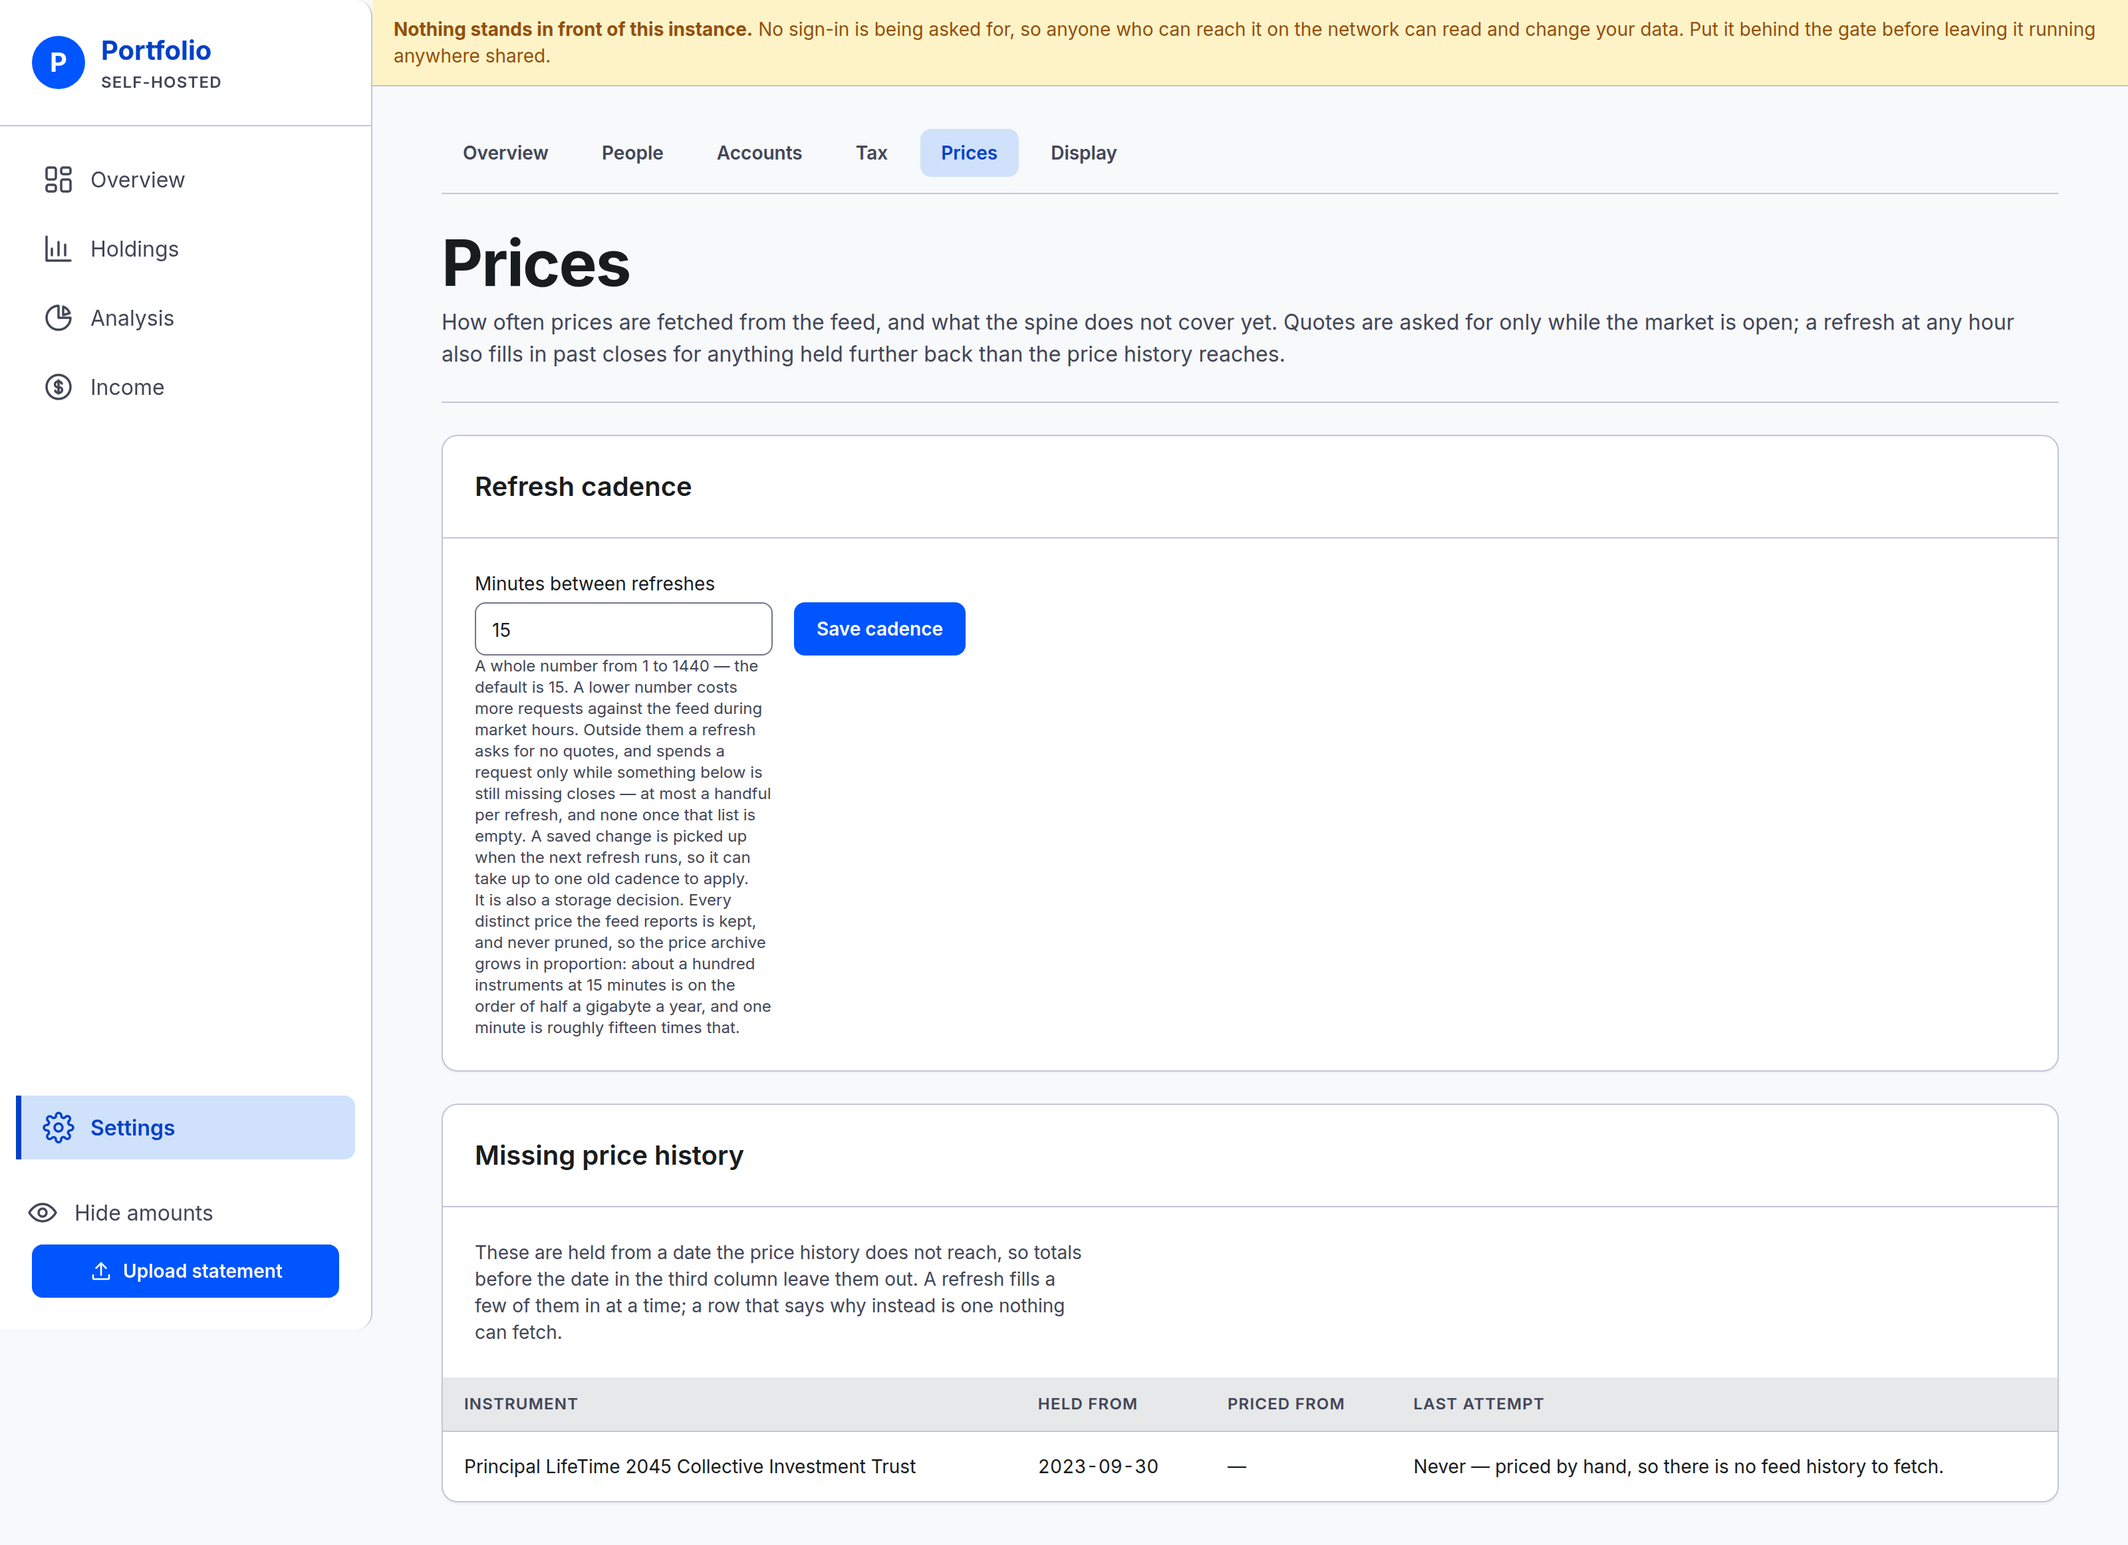
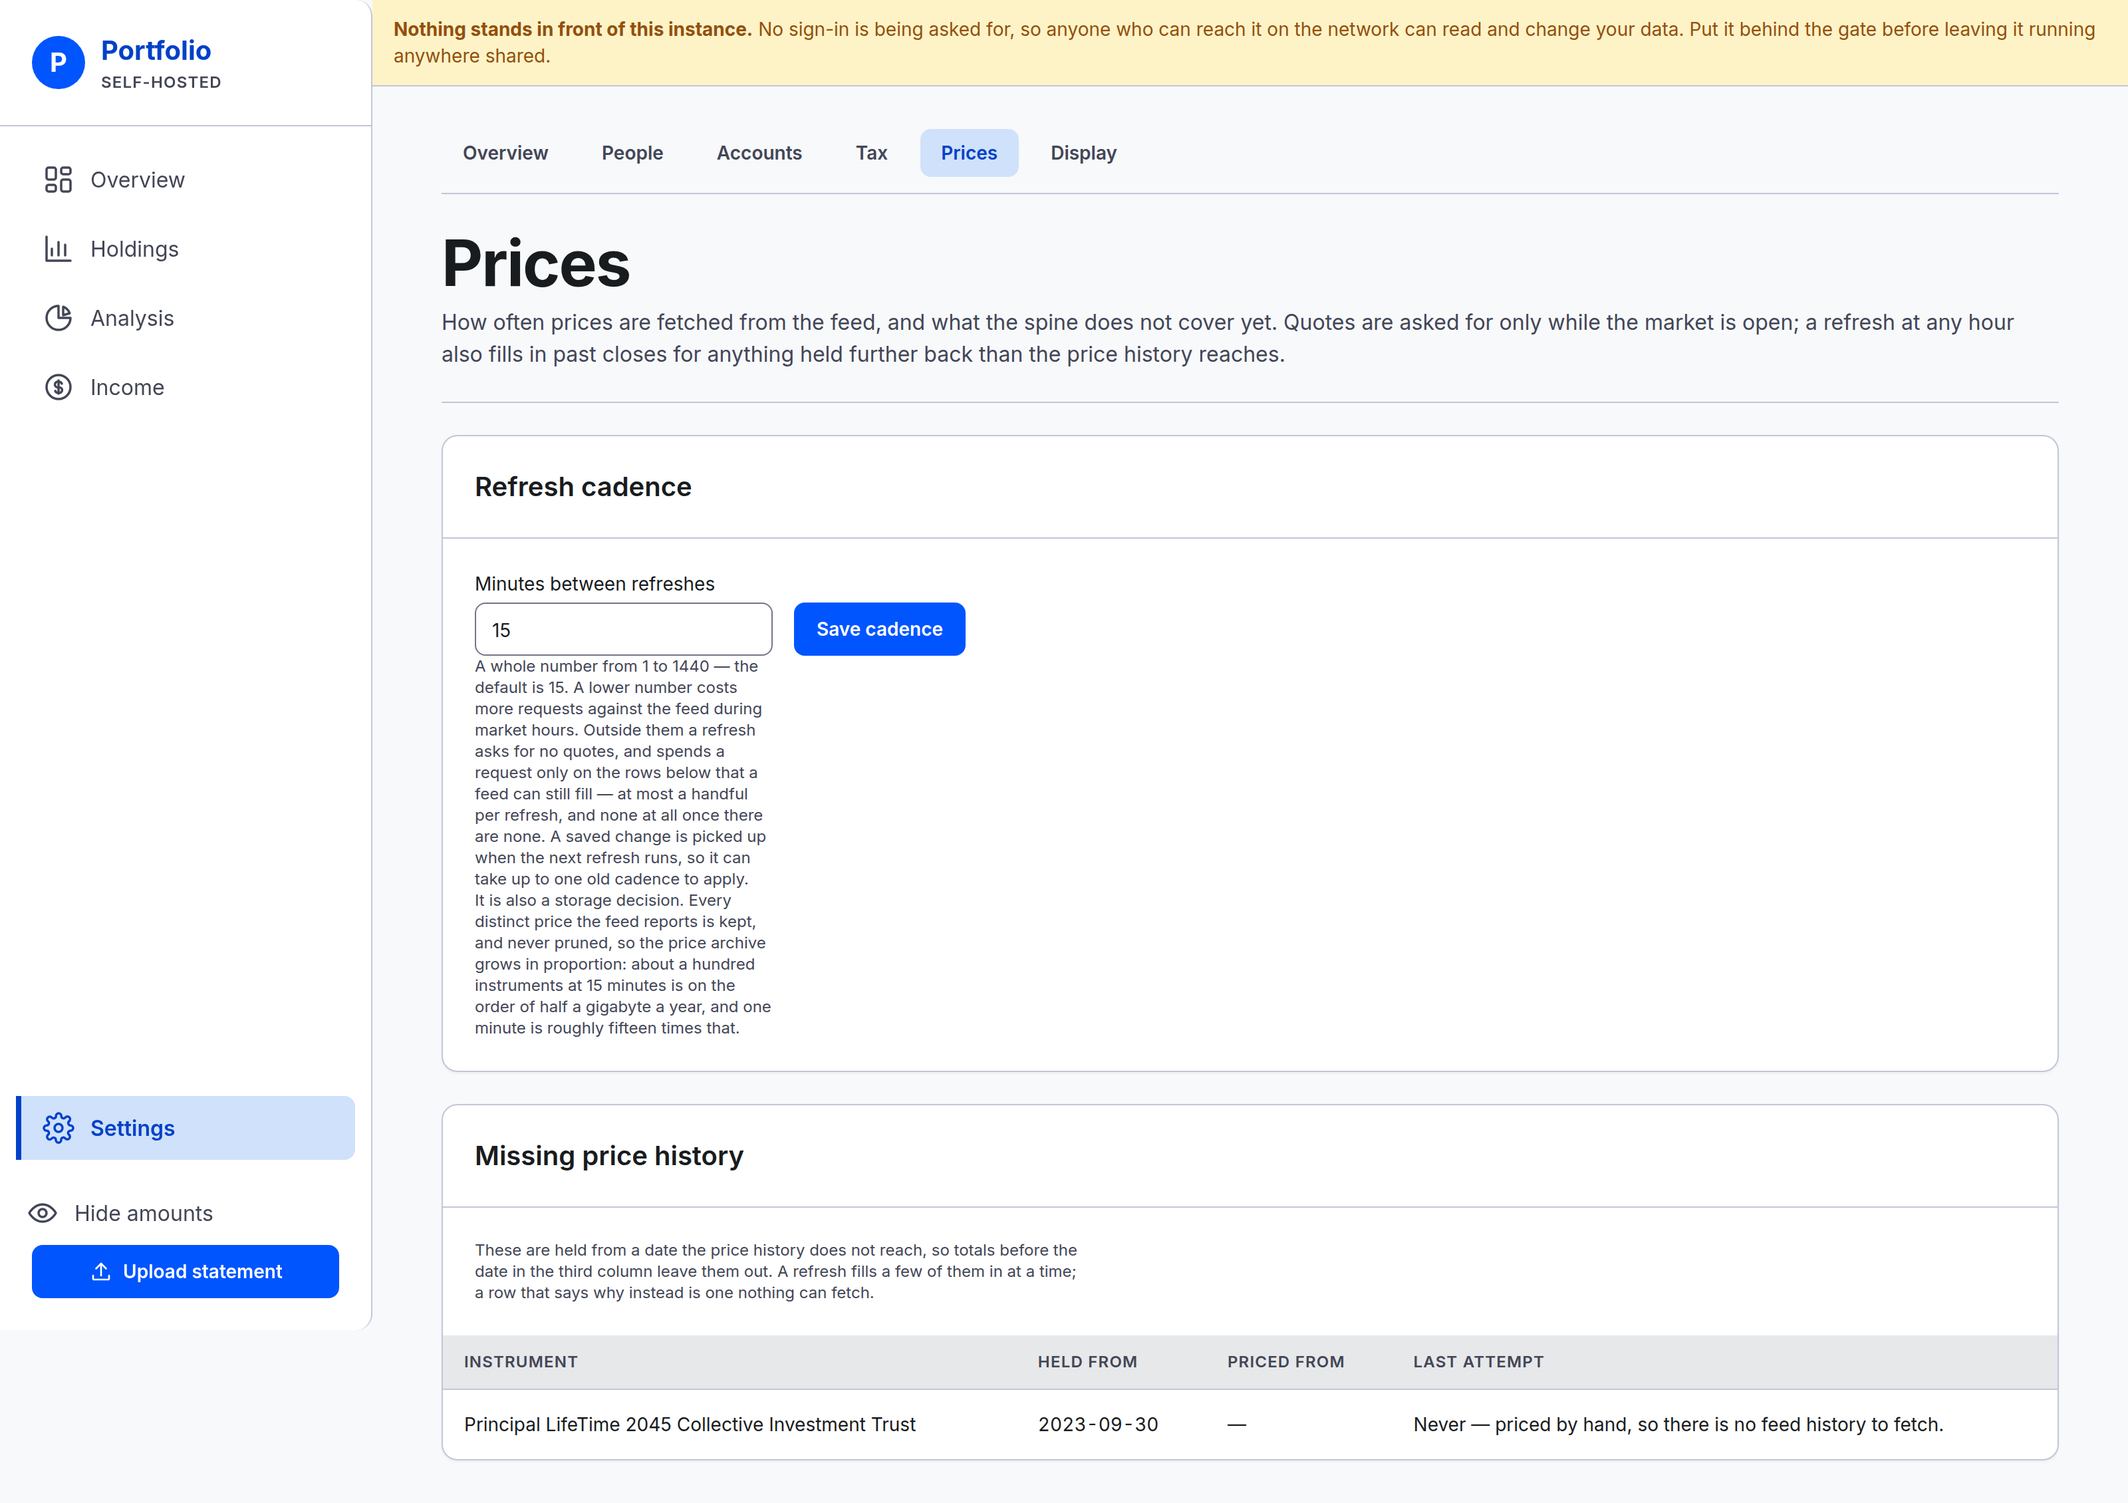
Pin the gap list's rules, and let the compiler hold the third vocabulary
Review found three mutations the tests let through and one they could not
have: the `fixed` exclusion was tested against the seeded USD row, which
carries a 1970 close and therefore has no gap at all — the row was absent for
a reason that had nothing to do with the filter, and deleting the filter left
the suite green. It is now tested against a fixed instrument with no close,
which only the filter keeps off the list. The comment beside it said the
opposite of what the test proved.

Two rules the ticket states had no test: that the list has no bound — a person
asking why a date is unpriced must not be shown a page of it — and that the
date reported is the *earliest* an instrument was held, which every test had
been holding in exactly one position set. Both now fail when broken.

The outcome sentences are keyed by `BackfillOutcome` rather than by `string`.
There are three copies of that vocabulary — the migration's `check`, the const
object, and these words — and two of them are kept in step by hand. This is the
one the compiler can hold: a literal added to the object and forgotten here is
now a typecheck failure rather than a blank cell on a settings screen, which is
also why the lookup no longer needs a fallback to excuse.

The route stopped re-deriving why an instrument will never be tried. It read
`priceSource === "manual"` and asserted "no ticker recorded" for everything
else, which is true only because of how the domain happens to define `willTry`
[…]

diff --git a/app/routes/settings/prices.tsx b/app/routes/settings/prices.tsx
@@ -4,7 +4,7 @@ import { FORM_ERROR, ValidationError, formFields } from "~/lib/input.server";
 import { backfillGaps } from "~/lib/prices.server";
 import { readRefreshCadence, saveRefreshCadence } from "~/lib/settings.server";
 
-import type { BackfillGap } from "~/lib/prices.server";
+import type { BackfillGap, BackfillOutcome } from "~/lib/prices.server";
 import type { Route } from "./+types/prices";
 
 /**
@@ -26,7 +26,9 @@ export function meta() {
 }
 
 export async function loader() {
-  return { refreshCadenceMinutes: await readRefreshCadence(), gaps: await backfillGaps() };
+  const [refreshCadenceMinutes, gaps] = await Promise.all([readRefreshCadence(), backfillGaps()]);
+
+  return { refreshCadenceMinutes, gaps };
 }
 
 export async function action({ request }: Route.ActionArgs) {
@@ -112,8 +114,8 @@ export default function Prices({ loaderData, actionData }: Route.ComponentProps)
             <p id="refresh-cadence-note" className="field-note">
               A whole number from 1 to 1440 — the default is 15. A lower number costs more
               requests against the feed during market hours. Outside them a refresh asks for no
-              quotes, and spends a request only while something below is still missing closes —
-              at most a handful per refresh, and none once that list is empty. A saved change is
+              quotes, and spends a request only on the rows below that a feed can still fill — at
+              most a handful per refresh, and none at all once there are none. A saved change is
               picked up when the next refresh runs, so it can take up to one old cadence to
               apply.
             </p>
@@ -150,7 +152,7 @@ export default function Prices({ loaderData, actionData }: Route.ComponentProps)
         ) : (
           <>
             <div className="panel-body">
-              <p className="empty-note">
+              <p className="field-note">
                 These are held from a date the price history does not reach, so totals before the
                 date in the third column leave them out. A refresh fills a few of them in at a
                 time; a row that says why instead is one nothing can fetch.
@@ -197,27 +199,52 @@ export default function Prices({ loaderData, actionData }: Route.ComponentProps)
  * sentence here falls back to the stored value rather than to nothing, so a
  * literal added to the schema and not to this map is legible rather than blank.
  */
-function attemptWords(gap: BackfillGap): string {
+function attemptWords(gap: BackfillGap): React.ReactNode {
   // Why, not just that: a hand-priced trust and a feed instrument nobody has
-  // given a ticker are two different things for a person to do about.
+  // given a ticker are two different things for a person to do about. Each
+  // branch reads a fact on the row rather than re-deriving the domain's rule for
+  // `willTry`, so a fourth price source would fall to the last sentence rather
+  // than be told its ticker is missing.
   if (!gap.willTry) {
-    return gap.priceSource === "manual"
-      ? "Never — priced by hand, so there is no feed history to fetch."
-      : "Never — no ticker recorded, so there is nothing to fetch under.";
+    if (gap.priceSource === "manual") {
+      return "Never — priced by hand, so there is no feed history to fetch.";
+    }
+    if (gap.symbol === null) {
+      return "Never — no ticker recorded, so there is nothing to fetch under.";
+    }
+    return "Never — this instrument is not priced from the feed.";
   }
 
   if (gap.lastAttempt === null) return "Not tried yet — the next refresh will.";
 
+  // The UTC day, formatted on the server for `settings/accounts.tsx`'s reason:
+  // these pages must work with JavaScript off, so there is no browser clock to
+  // ask at render time and a locale-formatted date would disagree with itself
+  // between the server render and hydration.
   const on = new Date(gap.lastAttempt.at).toISOString().slice(0, 10);
-  const said = OUTCOME_WORDS[gap.lastAttempt.outcome] ?? gap.lastAttempt.outcome;
+  const said = wordsFor(gap.lastAttempt.outcome);
 
-  return gap.lastAttempt.error === null
-    ? `${on} — ${said}`
-    : `${on} — ${said} ${gap.lastAttempt.error}`;
+  // An empty error is a row the ledger allows — a provider that failed with
+  // nothing to say — and appending it would leave a dangling colon.
+  const because = gap.lastAttempt.error?.trim();
+
+  return (
+    <>
+      <span className="u-data">{on}</span> — {because ? `${said} ${because}` : said}
+    </>
+  );
 }
 
-/** The ledger's closed vocabulary, as a person reads it. */
-const OUTCOME_WORDS: Record<string, string> = {
+/**
+ * The ledger's closed vocabulary, as a person reads it.
+ *
+ * Keyed by {@link BackfillOutcome} rather than by `string`, which is what makes
+ * this the *checked* copy: a literal added to `BACKFILL_OUTCOMES` and forgotten
+ * here fails the typecheck, where a `Record<string, string>` would ship a blank
+ * cell. The migration's `check` constraint and the const object are kept in step
+ * by hand; this is the one of the three the compiler can hold.
+ */
+const OUTCOME_WORDS: Record<BackfillOutcome, string> = {
   filled: "closes were written, and more are still missing.",
   nothing_to_write: "the feed answered, and every day it returned was already stored.",
   no_history: "the feed has no history for this ticker — it may be delisted or renamed.",
@@ -225,3 +252,15 @@ const OUTCOME_WORDS: Record<string, string> = {
   split_unresolved: "a share split in the range could not be applied, so nothing was stored.",
   provider_failed: "the request failed:",
 };
+
+/**
+ * The sentence for one stored outcome, or the stored value itself.
+ *
+ * The value crosses the driver as a `string`, so the lookup has to tolerate one
+ * the map has never heard of — which the `check` constraint makes impossible
+ * and a person reading a blank cell could not diagnose. Written as a search
+ * rather than an index so no assertion is needed to narrow the key.
+ */
+function wordsFor(outcome: string): string {
+  return Object.entries(OUTCOME_WORDS).find(([stored]) => stored === outcome)?.[1] ?? outcome;
+}

diff --git a/app/lib/prices.server.ts b/app/lib/prices.server.ts
@@ -234,15 +234,21 @@ export type BackfillOutcome = (typeof BACKFILL_OUTCOMES)[keyof typeof BACKFILL_O
  * before the day this was first held? `docs/importing-history.md`'s recipe says
  * the same thing as `min(price_daily.date) is null or > min(as_of_date)` over a
  * left join, which is equivalent and ruinous here: that join pairs every
- * holding row with every close of its instrument before the aggregate, which at
- * a hundred instruments over seven years is ~35M inner rows and about 1.4s
- * against ~4ms for this probe — and it grows without bound as the spine this
- * slice exists to fill grows. ARCHITECTURE §10 records the same shape as a bug
+ * holding row with every close of its instrument before the aggregate. Measured
+ * against a hundred instruments, ten years of monthly position sets and seven
+ * years of daily closes, that is 35M inner rows and 1.4s where this probe is
+ * 4ms — and the gap widens without bound as the spine this slice exists to fill
+ * grows. (The figures are that shape's; a shallower household is cheaper both
+ * ways and the ratio holds.) ARCHITECTURE §10 records the same shape as a bug
  * this repository has fixed once already. The recipe runs by hand; this runs on
  * every tick.
  *
- * It reads `instrument` and `position_set` from whichever query it is dropped
- * into, so both must join those under those names.
+ * **It is a `having` predicate, not a `where` one.** It reads `instrument` and
+ * `position_set` from whichever query it is dropped into — so both must join
+ * those under those names — and it reads `min(position_set.as_of_date)`, so the
+ * grouping must be one row per instrument for that to mean the instrument's
+ * first-held date. A grouping that split an instrument across two rows would
+ * change what this asks without touching a character of it.
  */
 const NO_CLOSE_BY_FIRST_HELD = sql<boolean>`not exists (
   select 1
@@ -351,9 +357,10 @@ export type BackfillGap = {
   /** The most recent attempt, or null where the batch has never tried. */
   lastAttempt: { at: Date; outcome: string; error: string | null } | null;
   /**
-   * `feed` or `manual`. Carried because {@link willTry} says *that* the batch
-   * will never try a row and this says *why* — a hand-priced trust and a feed
-   * instrument nobody has given a ticker are two different things to do about.
+   * As stored. `fixed` is filtered out, so in practice `feed` or `manual` —
+   * carried because {@link willTry} says *that* the batch will never try a row
+   * and this is half of *why*: a hand-priced trust and a feed instrument nobody
+   * has given a ticker are two different things for a person to do about.
    */
   priceSource: string;
   /**
@@ -442,9 +449,9 @@ export async function backfillGaps(db: Kysely<Database> = getDb()): Promise<Back
     name: row.name,
     firstHeld: row.first_held,
     firstClose: row.first_close,
-    // Both columns come from one row of the lateral, so either is the test for
-    // "there was an attempt"; TypeScript cannot see that, and reading the one
-    // the component needs is the honest narrowing.
+    // Both columns come from one row of the lateral, so in the database either
+    // alone answers "was there an attempt". TypeScript cannot see that, so both
+    // are checked — which is the narrowing, not a second condition.
     lastAttempt:
       row.started_at === null || row.outcome === null
         ? null

diff --git a/tests/price-backfill.test.ts b/tests/price-backfill.test.ts
@@ -1205,20 +1205,72 @@ describe("the whole list of gaps, for the person reading Settings", () => {
   );
 
   it(
-    "never lists the fixed instrument, whose close covers everything",
-    withDatabase(async ({ db, seedAccount, seedPositionSet, usdInstrument }) => {
+    "never lists a fixed instrument, even one that would otherwise be a gap",
+    withDatabase(async ({ db, seedAccount, seedInstrument, seedPositionSet, usdInstrument }) => {
       const account = await seedAccount();
+
+      // The seeded USD row is the wrong test on its own: its 1970 close covers
+      // every date, so it has no gap and would be absent whatever the filter
+      // said. This one has no close at all, so only the filter keeps it off.
+      const fixed = await seedInstrument({ symbol: "CASHLIKE", priceSource: "fixed" });
       const usd = await usdInstrument();
 
       await seedPositionSet({
         account,
-        // Long before the seeded 1970 close would be a gap; it is not, because
-        // `fixed` is excluded outright.
         asOf: "2024-03-29",
-        holdings: [{ instrument: usd, quantity: "1000.00000000" }],
+        holdings: [
+          { instrument: fixed, quantity: "1000.00000000" },
+          { instrument: usd, quantity: "1000.00000000" },
+        ],
       });
 
       expect(await backfillGaps(db)).toEqual([]);
+    }),
+  );
+
+  it(
+    "has no bound, because it is the whole list rather than the next batch",
+    withDatabase(async ({ db, seedAccount, seedInstrument, seedPositionSet }) => {
+      const account = await seedAccount();
+
+      // Comfortably more than the batch bound. A person asking why a date is
+      // unpriced must not be shown a page of it.
+      const wanted = 12;
+      for (let index = 0; index < wanted; index += 1) {
+        const instrument = await seedInstrument({ symbol: `SYM${index}`, priceSource: "feed" });
+        await seedPositionSet({
+          account,
+          asOf: "2024-03-29",
+          holdings: [{ instrument, quantity: "1.00000000" }],
+        });
+      }
+
+      expect(await backfillGaps(db)).toHaveLength(wanted);
+    }),
+  );
+
+  it(
+    "reports the earliest date an instrument was held, not the latest",
+    withDatabase(async ({ db, seedAccount, seedInstrument, seedPositionSet }) => {
+      const account = await seedAccount();
+      const instrument = await seedInstrument({ symbol: "VTI", priceSource: "feed" });
+
+      // Held in several sets, which is the ordinary case after a few uploads
+      // and the one that tells `min` from `max`.
+      await seedPositionSet({
+        account,
+        asOf: "2024-06-28",
+        holdings: [{ instrument, quantity: "2.00000000" }],
+      });
+      await seedPositionSet({
+        account,
+        asOf: "2024-03-29",
+        holdings: [{ instrument, quantity: "1.00000000" }],
+      });
+
+      const [gap] = await backfillGaps(db);
+
+      expect(gap?.firstHeld).toBe("2024-03-29");
     }),
   );
 

diff --git a/tests/routes/settings-prices.test.tsx b/tests/routes/settings-prices.test.tsx
@@ -134,16 +134,3 @@ describe("the gap list", () => {
     }),
   );
 });
-
-describe("what the page claims about cost", () => {
-  it(
-    "no longer says that nights and weekends cost nothing whatever the cadence says",
-    withDatabase(async () => {
-      const markup = await render();
-
-      // A backfill batch rides a tick at any hour, so the old promise is false.
-      expect(markup).not.toContain("cost nothing whatever the cadence says");
-      expect(markup).toContain("Quotes are asked for only while the market is open");
-    }),
-  );
-});
